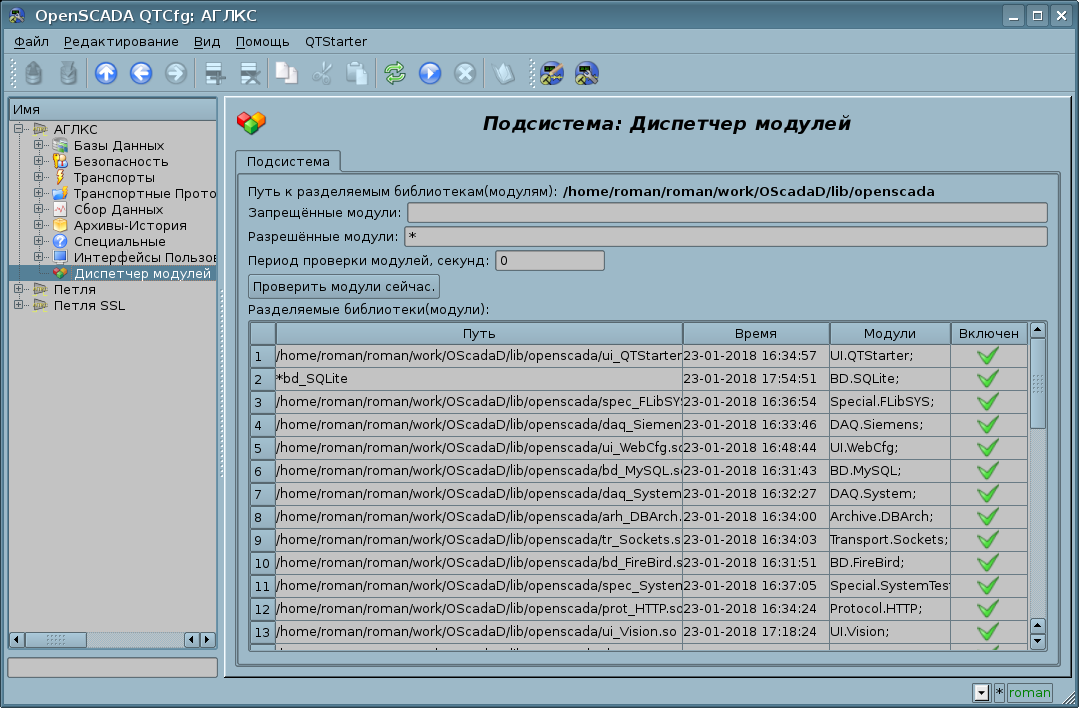
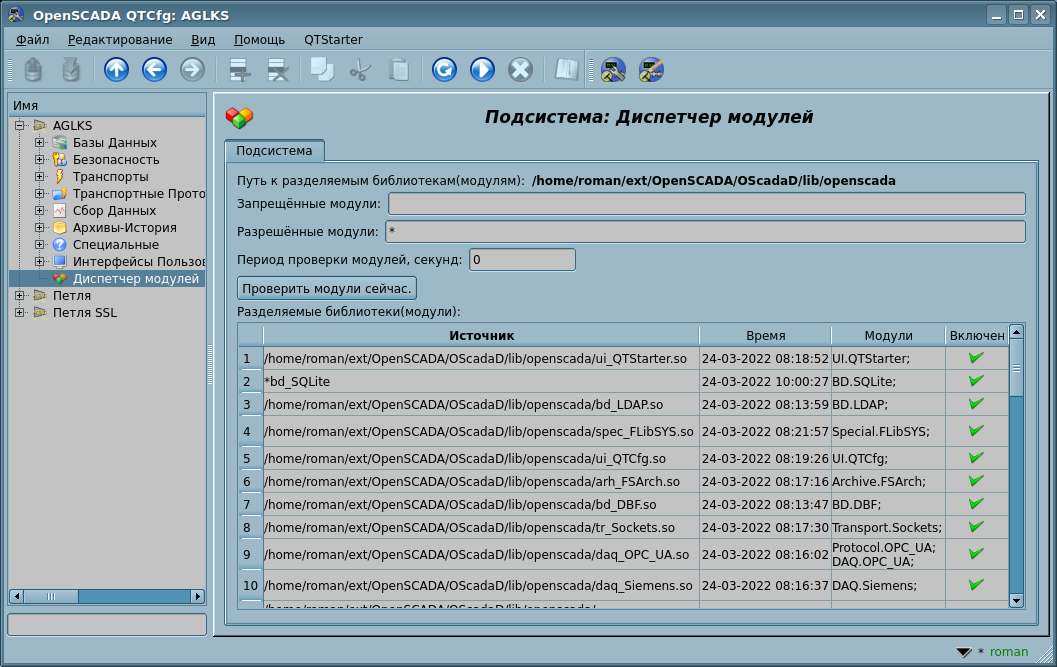
2022-03-25 Roman (stable) - FIX:LibsDB.vcaBase: wlb_Main.RootPgSo: Some unified in the terminator panel open before any content page. - SYS: The column "Path" of the "Shared libraries(modules)" table of the subsystem "Modules scheduler" renamed to "Source". - UI,SYS,DAQ.JavaLikeCalc: The subsystem c

diff --git a/doc/ru/Program_manual.html b/doc/ru/Program_manual.html
@@ -1003,10 +1003,12 @@
 </p>
 <div class="center"><div class="thumb tnone"><div class="thumbinner" style="width:1013px;"><a class="image" href="http://oscada.org/wiki/File:QTCfg_subsys_arch_mod_va_archs_ru.png"><img class="thumbimage" height="540" src="files/QTCfg_subsys_arch_mod_va_archs_ru.png" width="1011" /></a>  <div class="thumbcaption">Рис. 4.6k. Вкладка "Архивы" архиватора значений подсистемы "Архивы-История".</div></div></div></div>
 <h3><span class="mw-headline" id=".D0.9F.D0.BE.D0.B4.D1.81.D0.B8.D1.81.D1.82.D0.B5.D0.BC.D0.B0_.22.D0.9F.D0.BE.D0.BB.D1.8C.D0.B7.D0.BE.D0.B2.D0.B0.D1.82.D0.B5.D0.BB.D1.8C.D1.81.D0.BA.D0.B8.D0.B5_.D0.B8.D0.BD.D1.82.D0.B5.D1.80.D1.84.D0.B5.D0.B9.D1.81.D1.8B.22"><span class="mw-headline-number">4.7</span> Подсистема "Пользовательские интерфейсы"</span></h3>
-<p>Подсистема является модульной. Для конфигурации подсистемы предусмотрена корневая страница подсистемы "Пользовательские интерфейсы", содержащая вкладку "Модули". Вкладка "Модули" (Рис.4.1b) содержит список модулей подсистемы "Специальные" и идентична для всех модульных подсистем.
-</p><p>Каждый модуль подсистемы "Пользовательские интерфейсы" предоставляет конфигурационную страницу с вкладками "Пользовательский интерфейс" и "Модуль". Вкладка "Пользовательский интерфейс" (Рис.4.7) предоставляет параметр для контроля за состоянием "Выполняется" модуля, а также разделы конфигурации, специализированные для модулей этой подсистемы. Во вкладке "Модуль" содержится информация о модуле подсистемы "Пользовательские интерфейсы" (Рис.4.1d), состав которой идентичен для всех модулей.
+<p>Подсистема является модульной. Для конфигурации подсистемы предусмотрена корневая страница подсистемы "Пользовательские интерфейсы", содержащая вкладку "Подсистема" и вкладку "Модули". Вкладка "Подсистема" (Рис.4.7a) в данный момент содержит только конфигурационное поле установки шрифта подсветки синтаксису коду. Вкладка "Модули" (Рис.4.1b) содержит список модулей подсистемы "Специальные" и идентична для всех модульных подсистем.
 </p>
-<div class="center"><div class="thumb tnone"><div class="thumbinner" style="width:921px;"><a class="image" href="http://oscada.org/wiki/File:QTCfg_subsys_ui_mod_ru.png"><img class="thumbimage" height="541" src="files/QTCfg_subsys_ui_mod_ru.png" width="919" /></a>  <div class="thumbcaption">Рис. 4.7. Вкладка "Пользовательский интерфейс" модуля подсистемы "Пользовательские интерфейсы".</div></div></div></div>
+<div class="center"><div class="thumb tnone"><div class="thumbinner" style="width:727px;"><a class="image" href="http://oscada.org/wiki/File:QTCfg_subsys_ui_ru.png"><img class="thumbimage" height="404" src="files/QTCfg_subsys_ui_ru.png" width="725" /></a>  <div class="thumbcaption">Fig. 4.7a. Вкладка "Подсистема" корневой страницы "Пользовательские интерфейсы".</div></div></div></div>
+<p>Каждый модуль подсистемы "Пользовательские интерфейсы" предоставляет конфигурационную страницу с вкладками "Пользовательский интерфейс" и "Модуль". Вкладка "Пользовательский интерфейс" (Рис.4.7b) предоставляет параметр для контроля за состоянием "Выполняется" модуля, а также разделы конфигурации, специализированные для модулей этой подсистемы. Во вкладке "Модуль" содержится информация о модуле подсистемы "Пользовательские интерфейсы" (Рис.4.1d), состав которой идентичен для всех модулей.
+</p>
+<div class="center"><div class="thumb tnone"><div class="thumbinner" style="width:921px;"><a class="image" href="http://oscada.org/wiki/File:QTCfg_subsys_ui_mod_ru.png"><img class="thumbimage" height="541" src="files/QTCfg_subsys_ui_mod_ru.png" width="919" /></a>  <div class="thumbcaption">Рис. 4.7b. Вкладка "Пользовательский интерфейс" модуля подсистемы "Пользовательские интерфейсы".</div></div></div></div>
 <p>В связи с тем, что большинство модулей этой подсистемы являются графическими интерфейсами то они сами могут предоставлять развитый интерфейс настройки, например, модуль <a href="Modules/Vision.html" title="Special:MyLanguage/Modules/Vision">UI.Vision</a>, а информацию про специфику их конфигурации можно найти в собственной документации этих модулей.
 </p>
 <h3><span class="mw-headline" id=".D0.9F.D0.BE.D0.B4.D1.81.D0.B8.D1.81.D1.82.D0.B5.D0.BC.D0.B0_.22.D0.A1.D0.BF.D0.B5.D1.86.D0.B8.D0.B0.D0.BB.D1.8C.D0.BD.D1.8B.D0.B5.22"><span class="mw-headline-number">4.8</span> Подсистема "Специальные"</span></h3>
@@ -1023,11 +1025,11 @@
 <li> <i>Период проверки модулей</i> — указывает на период проверки модулей на факт их обновления, в секундах. Модули, допустимые для автоматического подключения и обновления, будут автоматически обновлены.</li>
 <li> <i>Проверить модули сейчас</i> — команда выполнить проверку модулей на факт их обновления. Модули, допустимые для автоматического подключения и обновления, будут автоматически обновлены.</li>
 <li> <i>Разделяемые библиотеки (модули)</i> — таблица с перечнем разделяемых библиотек с модулями, обнаруженными OpenSCADA. В строках расположены модули, а в колонках информация о них:
-<ul><li> <i>Путь</i> — информация о полном пути к разделяемой библиотеке.</li>
+<ul><li> <i>Источник</i> — источник модуля(ей), который или разделяемая библиотека или встроенный код.</li>
 <li> <i>Время</i> — информация о дате и времени последней модификации файла разделяемой библиотеки.</li>
 <li> <i>Модули</i> — информация о перечне модулей в разделяемой библиотеке.</li>
 <li> <i>Включен</i> — состояние "Включен" разделяемой библиотеки. Привилегированным пользователям предоставляется возможность ручного включения/выключения разделяемых библиотек путём изменения этого поля.</li></ul></li></ul>
-<div class="center"><div class="thumb tnone"><div class="thumbinner" style="width:1081px;"><a class="image" href="http://oscada.org/wiki/File:QTCfg_subsys_modshed_ru.png"><img class="thumbimage" height="708" src="files/QTCfg_subsys_modshed_ru.png" width="1079" /></a>  <div class="thumbcaption">Рис. 4.9. Главная вкладка конфигурации подсистемы "Диспетчер модулей".</div></div></div></div>
+<div class="center"><div class="thumb tnone"><div class="thumbinner" style="width:1059px;"><a class="image" href="http://oscada.org/wiki/File:QTCfg_subsys_modshed_ru.png"><img class="thumbimage" height="667" src="files/QTCfg_subsys_modshed_ru.png" width="1057" /></a>  <div class="thumbcaption">Рис. 4.9. Главная вкладка конфигурации подсистемы "Диспетчер модулей".</div></div></div></div>
 <h3><span class="mw-headline" id=".D0.9A.D0.BE.D0.BD.D1.84.D0.B8.D0.B3.D1.83.D1.80.D0.B0.D1.86.D0.B8.D0.BE.D0.BD.D0.BD.D1.8B.D0.B9_.D0.A4.D0.B0.D0.B9.D0.BB_.D0.B8_.D0.BF.D0.B0.D1.80.D0.B0.D0.BC.D0.B5.D1.82.D1.80.D1.8B_.D0.BA.D0.BE.D0.BC.D0.B0.D0.BD.D0.B4.D0.BD.D0.BE.D0.B9_.D1.81.D1.82.D1.80.D0.BE.D0.BA.D0.B8"><span class="mw-headline-number">4.10</span> <span id="CfgFilePrm" title="#CfgFilePrm">Конфигурационный Файл и параметры командной строки</span></span></h3>
 <p>Конфигурационный Файл OpenSCADA предназначен для хранения основной конфигурации станции OpenSCADA. Только в Конфигурационном Файле и через параметры командной строки можно указать часть ключевых параметров станции, поэтому знакомство со структурой конфигурационного файла необходимо специалистам, разворачивающим специфические решения на основе OpenSCADA. Больше информации про запуск и исполнение OpenSCADA может быть найдено в секции "<a href="#Startup">Запуск и исполнение</a>".
 </p><p>Структурно Конфигурационный Файл организован на расширяемом языке разметки текста XML. Следовательно требуется жёсткое соблюдение правилам синтаксиса XML. Показательный пример Конфигурационного Файла OpenSCADA с примерами конфигурации большинства компонентов OpenSCADA, приведен ниже:
@@ -1689,6 +1691,8 @@ RdRestDtOverTm &lt;дней&gt;   Глубина принудительной п
   11) Base64Code        Тесты кодирования Mime Base64 алгоритмом.
 
 ============= Опции подсистемы "Пользовательские интерфейсы" ============
+---------- Параметры секции '/sub_UI/' конфигурационного файла ----------
+FontSyntHighlCode &lt;шрифт&gt;  Шрифт использованный в подсветке синтаксиса кода, по умолчанию "monospace".
 
 ======================== Опции модуля &lt;UI:Vision&gt; ============================
 ------ Параметры модульной секции '/sub_UI/mod_Vision/' конфигурационного файла ------

diff --git a/doc/uk/Program_manual.html b/doc/uk/Program_manual.html
@@ -1001,10 +1001,12 @@
 </p>
 <div class="center"><div class="thumb tnone"><div class="thumbinner" style="width:929px;"><a class="image" href="http://oscada.org/wiki/File:QTCfg_subsys_arch_mod_va_archs_uk.png"><img class="thumbimage" height="532" src="files/QTCfg_subsys_arch_mod_va_archs_uk.png" width="927" /></a>  <div class="thumbcaption">Рис. 4.6k. Вкладка "Архіви" архіватору значень підсистеми "Архіви-Історія".</div></div></div></div>
 <h3><span class="mw-headline" id=".D0.9F.D1.96.D0.B4.D1.81.D0.B8.D1.81.D1.82.D0.B5.D0.BC.D0.B0_.22.D0.9A.D0.BE.D1.80.D0.B8.D1.81.D1.82.D1.83.D0.B2.D0.B0.D1.86.D1.8C.D0.BA.D1.96_.D1.96.D0.BD.D1.82.D0.B5.D1.80.D1.84.D0.B5.D0.B9.D1.81.D0.B8.22"><span class="mw-headline-number">4.7</span> Підсистема "Користувацькі інтерфейси"</span></h3>
-<p>Підсистема є модульною. Для конфігурації підсистеми передбачено кореневу сторінку підсистеми "Користувацькі інтерфейси", що містить вкладку "Модулі". Вкладка "Модулі" (Рис.4.1b) містить перелік модулів підсистеми "Спеціальні" та ідентична для всіх модульних підсистем.
-</p><p>Кожний модуль підсистеми "Користувацькі інтерфейси" надає конфігураційну сторінку з вкладками "Користувацький інтерфейс" та "Модуль". Вкладка "Користувацький інтерфейс" (Рис.4.7) надає параметр для контролю за станом "Виконується" модуля, а також розділи конфігурації, спеціалізовані для модулів цієї підсистеми. У вкладці "Модуль" міститься інформація про модуль підсистеми "Користувацькі інтерфейси" (Рис.4.1d), склад якої ідентичний для всіх модулів.
+<p>Підсистема є модульною. Для конфігурації підсистеми передбачено кореневу сторінку підсистеми "Користувацькі інтерфейси", яка містить вкладку "Підсистема" та вкладку "Модулі". Вкладка "Підсистема" (Рис.4.7a) наразі містить лише конфігураційне поле встановлення шрифту підсвітлення синтаксису коду. Вкладка "Модулі" (Рис.4.1b) містить перелік модулів підсистеми "Спеціальні" та ідентична для всіх модульних підсистем.
 </p>
-<div class="center"><div class="thumb tnone"><div class="thumbinner" style="width:842px;"><a class="image" href="http://oscada.org/wiki/File:QTCfg_subsys_ui_mod_uk.png"><img class="thumbimage" height="544" src="files/QTCfg_subsys_ui_mod_uk.png" width="840" /></a>  <div class="thumbcaption">Рис. 4.7. Вкладка "Користувацький інтерфейс" модуля підсистеми "Користувацькі інтерфейси".</div></div></div></div>
+<div class="center"><div class="thumb tnone"><div class="thumbinner" style="width:685px;"><a class="image" href="http://oscada.org/wiki/File:QTCfg_subsys_ui_uk.png"><img class="thumbimage" height="404" src="files/QTCfg_subsys_ui_uk.png" width="683" /></a>  <div class="thumbcaption">Fig. 4.7a. Вкладка "Підсистема" кореневої сторінки "Користувацькі інтерфейси".</div></div></div></div>
+<p>Кожний модуль підсистеми "Користувацькі інтерфейси" надає конфігураційну сторінку з вкладками "Користувацький інтерфейс" та "Модуль". Вкладка "Користувацький інтерфейс" (Рис.4.7b) надає параметр для контролю за станом "Виконується" модуля, а також розділи конфігурації, спеціалізовані для модулів цієї підсистеми. У вкладці "Модуль" міститься інформація про модуль підсистеми "Користувацькі інтерфейси" (Рис.4.1d), склад якої ідентичний для всіх модулів.
+</p>
+<div class="center"><div class="thumb tnone"><div class="thumbinner" style="width:842px;"><a class="image" href="http://oscada.org/wiki/File:QTCfg_subsys_ui_mod_uk.png"><img class="thumbimage" height="544" src="files/QTCfg_subsys_ui_mod_uk.png" width="840" /></a>  <div class="thumbcaption">Рис. 4.7b. Вкладка "Користувацький інтерфейс" модуля підсистеми "Користувацькі інтерфейси".</div></div></div></div>
 <p>У зв'язку з тим, що більшість модулів цієї підсистеми є графічними інтерфейсами то вони самі можуть надавати розвинутий інтерфейс налаштування, як то модуль <a href="Modules/Vision.html" title="Special:MyLanguage/Modules/Vision">UI.Vision</a>, а інформацію про специфіку їх конфігурації можна знайти у власній документації цих модулів.
 </p>
 <h3><span class="mw-headline" id=".D0.9F.D1.96.D0.B4.D1.81.D0.B8.D1.81.D1.82.D0.B5.D0.BC.D0.B0_.22.D0.A1.D0.BF.D0.B5.D1.86.D1.96.D0.B0.D0.BB.D1.8C.D0.BD.D1.96.22"><span class="mw-headline-number">4.8</span> Підсистема "Спеціальні"</span></h3>
@@ -1021,11 +1023,11 @@
 <li> <i>Період перевірки модулів</i> — вказує на період перевірки модулів на факт їх оновлення, у секундах. Модулі, дозволені до автоматичного підключення та оновлення, будуть автоматично оновлені.</li>
 <li> <i>Перевірити модулі зараз</i> — команда виконати перевірку модулів на факт їх оновлення. Модулі, допустимі для автоматичного підключення та оновлення, будуть автоматично оновлені.</li>
 <li> <i>Поділювані бібліотеки (модулі)</i> — таблиця з переліком поділюваних бібліотек з модулями, що виявлені OpenSCADA. У рядках розташовано модулі, а у стовпчиках інформацію про них:
-<ul><li> <i>Шлях</i> — інформація про повний шлях до поділюваної бібліотеки.</li>
+<ul><li> <i>Джерело</i> — джерело модуля(ів), яке або поділювана бібліотека або вбудований код.</li>
 <li> <i>Час</i> — інформація про дату та час останньої модифікації файлу поділюваної бібліотеки.</li>
 <li> <i>Модулі</i> — інформація про перелік модулів у поділюваній бібліотеці.</li>
 <li> <i>Ввімкнено</i> — стан "Ввімкнено" поділюваної бібліотеки. Привілейованим користувачам надається можливість ручного включення/виключення поділюваних бібліотек шляхом зміни цього поля.</li></ul></li></ul>
-<div class="center"><div class="thumb tnone"><div class="thumbinner" style="width:1123px;"><a class="image" href="http://oscada.org/wiki/File:QTCfg_subsys_modshed_uk.png"><img class="thumbimage" height="662" src="files/QTCfg_subsys_modshed_uk.png" width="1121" /></a>  <div class="thumbcaption">Рис. 4.9. Головна вкладка конфігурації підсистеми "Диспетчер модулів".</div></div></div></div>
+<div class="center"><div class="thumb tnone"><div class="thumbinner" style="width:1070px;"><a class="image" href="http://oscada.org/wiki/File:QTCfg_subsys_modshed_uk.png"><img class="thumbimage" height="624" src="files/QTCfg_subsys_modshed_uk.png" width="1068" /></a>  <div class="thumbcaption">Рис. 4.9. Головна вкладка конфігурації підсистеми "Диспетчер модулів".</div></div></div></div>
 <h3><span class="mw-headline" id=".D0.9A.D0.BE.D0.BD.D1.84.D1.96.D0.B3.D1.83.D1.80.D0.B0.D1.86.D1.96.D0.B9.D0.BD.D0.B8.D0.B9_.D0.A4.D0.B0.D0.B9.D0.BB_.D1.82.D0.B0_.D0.BF.D0.B0.D1.80.D0.B0.D0.BC.D0.B5.D1.82.D1.80.D0.B8_.D0.BA.D0.BE.D0.BC.D0.B0.D0.BD.D0.B4.D0.BD.D0.BE.D0.B3.D0.BE_.D1.80.D1.8F.D0.B4.D0.BA.D1.83"><span class="mw-headline-number">4.10</span> <span id="CfgFilePrm" title="#CfgFilePrm">Конфігураційний Файл та параметри командного рядку</span></span></h3>
 <p>Конфігураційний Файл OpenSCADA призначено для зберігання основної конфігурації станції OpenSCADA. Лише у Конфігураційному Файлі та через параметри командного рядка можна вказати частину ключових параметрів станції, тому знайомство зі структурою Конфігураційного Файлу необхідне фахівцям, що розгортають специфічні рішення на основі OpenSCADA. Більше інформації із запуску та виконання OpenSCADA може бути знайдено у секції "<a href="#Startup">Запуск та виконання</a>".
 </p><p>Структурно Конфігураційний Файл організовано на розширювальній мові розмітки тексту XML. Відповідно вимагається жорстке дотримання правил синтаксису XML. Показовий приклад Конфігураційного Файлу OpenSCADA з прикладами конфігурації більшості компонентів OpenSCADA, приведено нижче:
@@ -1687,6 +1689,8 @@ RdRestDtOverTm &lt;днів&gt;   Глибина примусового пере
   11) Base64Code        Тести кодування алгоритмом Mime Base64.
 
 ================= Опції підсистеми "Інтерфейси користувачів" ============
+---------- Параметри секції '/sub_UI/' конфігураційного файлу ----------
+FontSyntHighlCode &lt;шрифт&gt;  Шрифт використаний у підсвітлені синтаксису коду, по замовченню "monospace".
 
 ======================== Опції модуля &lt;UI:Vision&gt; ============================
 ------ Параметри модульної секції '/sub_UI/mod_Vision/' конфігураційного файлу ------

diff --git a/doc/en/Program_manual.html b/doc/en/Program_manual.html
@@ -1001,10 +1001,12 @@
 </p>
 <div class="center"><div class="thumb tnone"><div class="thumbinner" style="width:881px;"><a class="image" href="http://oscada.org/wiki/File:QTCfg_subsys_arch_mod_va_archs.png"><img class="thumbimage" height="533" src="files/QTCfg_subsys_arch_mod_va_archs.png" width="879" /></a>  <div class="thumbcaption">Fig. 4.6k. The tab "Archives" of a values archiver of the subsystem "Archives-History".</div></div></div></div>
 <h3><span class="mw-headline" id="Subsystem_.22User_interfaces.22"><span class="mw-headline-number">4.7</span> Subsystem "User interfaces"</span></h3>
-<p>The subsystem is modular one. To configure the subsystem the root page of the subsystem "User Interfaces" is provided, it contains the tab "Modules". The tab "Modules" (Fig.4.1b) contains a list of modules in the subsystem "User Interfaces" and it is identical for all modular subsystems.
-</p><p>Each module of the subsystem "User Interfaces" provides configuration page with the tabs "User Interface" and "Module". The "User Interface" tab (Fig.4.7) provides the parameter for monitoring the "Running" status of the module, as well as the configuration sections specialized for the modules of this subsystem. On the "Module" tab it is provided the information about the module of subsystem "User Interfaces" (Fig.4.1d), whose structure is identical for all modules.
+<p>The subsystem is modular one. To configure the subsystem the root page of the subsystem "User Interfaces" is provided, it contains the tab "Subsystem" and the tab "Modules". The tab "Subsystem" (Fig.4.7a) contains currently only a configuration field for setting the syntax highlight font for code. The tab "Modules" (Fig.4.1b) contains a list of modules in the subsystem "User Interfaces" and it is identical for all modular subsystems.
 </p>
-<div class="center"><div class="thumb tnone"><div class="thumbinner" style="width:748px;"><a class="image" href="http://oscada.org/wiki/File:QTCfg_subsys_ui_mod.png"><img class="thumbimage" height="548" src="files/QTCfg_subsys_ui_mod.png" width="746" /></a>  <div class="thumbcaption">Fig. 4.7. The tab "User Interface" of the module of the subsystem "User Interfaces".</div></div></div></div>
+<div class="center"><div class="thumb tnone"><div class="thumbinner" style="width:683px;"><a class="image" href="http://oscada.org/wiki/File:QTCfg_subsys_ui.png"><img class="thumbimage" height="404" src="files/QTCfg_subsys_ui.png" width="681" /></a>  <div class="thumbcaption">Fig. 4.7a. The tab "Subsystem" of the root page of the subsystem "User Interfaces".</div></div></div></div>
+<p>Each module of the subsystem "User Interfaces" provides configuration page with the tabs "User Interface" and "Module". The "User Interface" tab (Fig.4.7b) provides the parameter for monitoring the "Running" status of the module, as well as the configuration sections specialized for the modules of this subsystem. On the "Module" tab it is provided the information about the module of subsystem "User Interfaces" (Fig.4.1d), whose structure is identical for all modules.
+</p>
+<div class="center"><div class="thumb tnone"><div class="thumbinner" style="width:748px;"><a class="image" href="http://oscada.org/wiki/File:QTCfg_subsys_ui_mod.png"><img class="thumbimage" height="548" src="files/QTCfg_subsys_ui_mod.png" width="746" /></a>  <div class="thumbcaption">Fig. 4.7b. The tab "User Interface" of the module of the subsystem "User Interfaces".</div></div></div></div>
 <p>Due to the fact that most modules of this subsystem are graphical interfaces, they themselves can provide a developed configuration interface such as the <a href="Modules/Vision.html" title="Special:MyLanguage/Modules/Vision">UI.Vision</a> module, and information on the specifics of their configuration can be find in their own documentation of these modules.
 </p>
 <h3><span class="mw-headline" id="Subsystem_.22Specials.22"><span class="mw-headline-number">4.8</span> Subsystem "Specials"</span></h3>
@@ -1021,11 +1023,11 @@
 <li> <i>Period of checking of the modules</i> — indicates the period of checking the modules on the fact of their updating, in seconds. Modules those are allowed for automatically connection and updating will be automatically updated.</li>
 <li> <i>Check the modules now</i> — command to check the modules on the fact of their updating. Modules those are allowed for automatically connection and updating will be automatically updated.</li>
 <li> <i>Shared libraries(modules)</i> — a table with the list of shared libraries with the modules detected by OpenSCADA. Rows are modules and in the columns there is information about them:
-<ul><li> <i>Path</i> — information on the full path to the shared library.</li>
+<ul><li> <i>Source</i> — the module(s) source, which is either the shared library or builtin code.</li>
 <li> <i>Time</i> — information about the date and time of the last modification of a shared library.</li>
 <li> <i>Modules</i> — information about the list of modules in a shared library.</li>
 <li> <i>Enabled</i> — state "Enabled" of the shared library. Privileged users are provided with an opportunity to manually enable/disable the shared libraries by changing this field.</li></ul></li></ul>
-<div class="center"><div class="thumb tnone"><div class="thumbinner" style="width:1097px;"><a class="image" href="http://oscada.org/wiki/File:QTCfg_subsys_modshed.png"><img class="thumbimage" height="677" src="files/QTCfg_subsys_modshed.png" width="1095" /></a>  <div class="thumbcaption">Fig. 4.9. The main configuration tab of the subsystem "Modules scheduler".</div></div></div></div>
+<div class="center"><div class="thumb tnone"><div class="thumbinner" style="width:1065px;"><a class="image" href="http://oscada.org/wiki/File:QTCfg_subsys_modshed.png"><img class="thumbimage" height="671" src="files/QTCfg_subsys_modshed.png" width="1063" /></a>  <div class="thumbcaption">Fig. 4.9. The main configuration tab of the subsystem "Modules scheduler".</div></div></div></div>
 <h3><span class="mw-headline" id="Configuration_File_and_command_line_parameters"><span class="mw-headline-number">4.10</span> <span id="CfgFilePrm" title="#CfgFilePrm">Configuration File and command line parameters</span></span></h3>
 <p>The Configuration File of OpenSCADA is provided to store the generic configuration of OpenSCADA-station. Only in the Configuration File and through the command-line options you can specify a part of the key parameters of the station, so familiarity with the Configuration File structure is necessary for professionals who make peculiar solutions based on OpenSCADA. More information on how to startup and execution OpenSCADA can be found in the section "<a href="#Startup">Startup and execution</a>".
 </p><p>Structure of the Configuration File based on the extensible markup language XML. Correspondingly, strict compliance with XML syntax rules is required. An illustrative example of an OpenSCADA Configuration File with examples of the configuration of most OpenSCADA components is given below:
@@ -1687,6 +1689,8 @@ Contains 7(8) tests of the value archiver to verify the correct functioning of t
   11) Base64Code        Mime Base64 algorithm encoding tests.
 
 ===================== Subsystem "User interfaces" options ===============
+------ Parameters of the section '/sub_UI/' of the configuration file ------
+FontSyntHighlCode &lt;font&gt;  Font used in the code syntax highlight, by default "monospace".
 
 ======================= Module &lt;UI:Vision&gt; options =======================
 ---- Parameters of the module section '/sub_UI/mod_Vision/' of the configuration file ----

diff --git a/src/moduls/ui/VCAEngine/origwidg.cpp b/src/moduls/ui/VCAEngine/origwidg.cpp
@@ -1005,8 +1005,8 @@ bool OrigDiagram::attrChange( Attr &cfg, TVariant prev )
 	    cfg.owner()->attrDel("curColor");
 	}
 	else {
-	    cfg.owner()->attrAdd(new TFld("curSek",trS("Cursor: seconds"),TFld::Integer,Attr::DateTime|Attr::Mutable,"","","","",i2s(A_DiagramCurSek).c_str()));
-	    cfg.owner()->attrAdd(new TFld("curUSek",trS("Cursor: microseconds"),TFld::Integer,Attr::Mutable,"","","","",i2s(A_DiagramCurUSek).c_str()));
+	    cfg.owner()->attrAdd(new TFld("curSek",trS("Cursor: seconds"),TFld::Integer,Attr::NotStored|Attr::DateTime|Attr::Mutable,"","","","",i2s(A_DiagramCurSek).c_str()));
+	    cfg.owner()->attrAdd(new TFld("curUSek",trS("Cursor: microseconds"),TFld::Integer,Attr::NotStored|Attr::Mutable,"","","","",i2s(A_DiagramCurUSek).c_str()));
 	    cfg.owner()->attrAdd(new TFld("curColor",trS("Cursor: color"),TFld::String,Attr::Color|Attr::Mutable,"","white","","",i2s(A_DiagramCurColor).c_str()));
 	}
     }
@@ -1027,8 +1027,8 @@ bool OrigDiagram::attrChange( Attr &cfg, TVariant prev )
 		cfg.owner()->attrAdd(new TFld("tUSek",trS("Time: microseconds"),TFld::Integer,Attr::Mutable,"","","","",i2s(A_DiagramTUSek).c_str()));
 		cfg.owner()->attrAdd(new TFld("tSize",trS("Size, seconds"),TFld::Real,Attr::Mutable,"","60","0;32e6","",i2s(A_DiagramTSize).c_str()));
 		if(cfg.owner()->attrAt("active").at().getB()) {
-		    cfg.owner()->attrAdd(new TFld("curSek",trS("Cursor: seconds"),TFld::Integer,Attr::DateTime|Attr::Mutable,"","","","",i2s(A_DiagramCurSek).c_str()));
-		    cfg.owner()->attrAdd(new TFld("curUSek",trS("Cursor: microseconds"),TFld::Integer,Attr::Mutable,"","","","",i2s(A_DiagramCurUSek).c_str()));
+		    cfg.owner()->attrAdd(new TFld("curSek",trS("Cursor: seconds"),TFld::Integer,Attr::NotStored|Attr::DateTime|Attr::Mutable,"","","","",i2s(A_DiagramCurSek).c_str()));
+		    cfg.owner()->attrAdd(new TFld("curUSek",trS("Cursor: microseconds"),TFld::Integer,Attr::NotStored|Attr::Mutable,"","","","",i2s(A_DiagramCurUSek).c_str()));
 		    cfg.owner()->attrAdd(new TFld("curColor",trS("Cursor: color"),TFld::String,Attr::Color|Attr::Mutable,"","white","","",i2s(A_DiagramCurColor).c_str()));
 		}
 		cfg.owner()->attrAdd(new TFld("sclColor",trS("Scale: color"),TFld::String,Attr::Color|Attr::Mutable,"","grey","","",i2s(A_DiagramSclColor).c_str()));
@@ -1087,9 +1087,9 @@ bool OrigDiagram::attrChange( Attr &cfg, TVariant prev )
 		"","0","0;2;3;6;7",_("Global;Markers;Grid and markers;Markers (log);Grid and markers (log)"),
 		i2s(A_DiagramTrs+A_DiagramTrScl+A_DiagramTrsSz*iP).c_str()));
 	    cfg.owner()->attrAdd(new TFld((fidp+"val").c_str(),(fnmp+_(": value")).c_str(),
-		TFld::Real,Attr::Mutable,"","","","",i2s(A_DiagramTrs+A_DiagramTrVal+A_DiagramTrsSz*iP).c_str()));
+		TFld::Real,Attr::NotStored|Attr::Mutable,"",r2s(EVAL_REAL).c_str(),"","",i2s(A_DiagramTrs+A_DiagramTrVal+A_DiagramTrsSz*iP).c_str()));
 	    cfg.owner()->attrAdd(new TFld((fidp+"prop").c_str(),(fnmp+_(": properties")).c_str(),
-		TFld::String,Attr::Mutable,"","","","",i2s(A_DiagramTrs+A_DiagramTrProp+A_DiagramTrsSz*iP).c_str()));
+		TFld::String,Attr::NotStored|Attr::Mutable,"","","","",i2s(A_DiagramTrs+A_DiagramTrProp+A_DiagramTrsSz*iP).c_str()));
 	}
     }
 
@@ -1335,7 +1335,7 @@ bool OrigDocument::attrChange( Attr &cfg, TVariant prev )
     }
 
     SessWdg *sw = dynamic_cast<SessWdg*>(cfg.owner());
-    if(!sw) return Widget::attrChange(cfg,prev);
+    if(!sw) return Widget::attrChange(cfg, prev);
 
     string u, l;
     if(sw) { u = sw->ownerSess()->reqUser(); l = sw->ownerSess()->reqLang(); }

diff --git a/src/tuis.cpp b/src/tuis.cpp
@@ -35,8 +35,10 @@ using namespace OSCADA;
 //*************************************************
 //* TUIS                                          *
 //*************************************************
-TUIS::TUIS( ) : TSubSYS(SUI_ID, true)
+TUIS::TUIS( ) : TSubSYS(SUI_ID, true), mFontSyntHighlCode(dataRes())
 {
+    mFontSyntHighlCode = "monospace";
+
 #if HAVE_GD_FORCE
     gdFTUseFontConfig(1);
 #endif
@@ -45,7 +47,10 @@ TUIS::TUIS( ) : TSubSYS(SUI_ID, true)
 string TUIS::optDescr( )
 {
     return TSYS::strMess(_(
-	"===================== Subsystem \"User interfaces\" options ===============\n\n")) + TSubSYS::optDescr();
+	"===================== Subsystem \"User interfaces\" options ===============\n"
+	"------ Parameters of the section '%s' of the configuration file ------\n"
+	"FontSyntHighlCode <font>  Font used in the code syntax highlight, by default \"monospace\".\n\n"
+	),nodePath().c_str()) + TSubSYS::optDescr();
 }
 
 void TUIS::load_( )
@@ -53,6 +58,13 @@ void TUIS::load_( )
     //Load parameters from command line
 
     //Load parameters from config-file
+    setFontSyntHighlCode(TBDS::genPrmGet(nodePath()+"FontSyntHighlCode",fontSyntHighlCode()));
+}
+
+void TUIS::save_( )
+{
+    //Save parameters to the table "SYS"
+    TBDS::genPrmSet(nodePath()+"FontSyntHighlCode", fontSyntHighlCode());
 }
 
 string TUIS::icoGet( const string &inm, string *tp, bool retPath )
@@ -113,7 +125,7 @@ string TUIS::docGet( const string &iinm, string *tp, unsigned opt )
 	TArrayObj *tArr;
 	if((tArr=TRegExp("(0.\\d+|\\d+)\\.\\d+").match(VERSION))) {
 	    if(tArr->size() >= 2) {
-		const char  *docHost = "ftp.oscada.org/OpenSCADA";
+		const char *docHost = "ftp.oscada.org/OpenSCADA";
 
 		if(opt&GetPathURL) rez = string("http://") + docHost + "/" + tArr->arGet(1).getS() + "/doc/en/" + nm + ".html";
 		else if(opt&GetContent) ;//rez = req.text();
@@ -205,11 +217,17 @@ void TUIS::cntrCmdProc( XMLNode *opt )
     //Get page info
     if(opt->name() == "info") {
 	TSubSYS::cntrCmdProc(opt);
+	if(ctrMkNode("area",opt,0,"/sub",_("Subsystem"),R_R_R_))
+	    ctrMkNode("fld",opt,-1,"/sub/fontSyntHighlCode",_("Syntax highlight font for code"),RWRWR_,"root",SUI_ID,1,"tp","str");
 	return;
     }
     //Process command to page
     string a_path = opt->attr("path");
-    TSubSYS::cntrCmdProc(opt);
+    if(a_path == "/sub/fontSyntHighlCode") {
+	if(ctrChkNode(opt,"get",RWRWR_,"root",SDAQ_ID,SEC_RD))	opt->setText(fontSyntHighlCode());
+	if(ctrChkNode(opt,"set",RWRWR_,"root",SDAQ_ID,SEC_WR))	setFontSyntHighlCode(opt->text());
+    }
+    else TSubSYS::cntrCmdProc(opt);
 }
 
 //*************************************************

diff --git a/src/ttransports.cpp b/src/ttransports.cpp
@@ -984,7 +984,7 @@ void TTransportIn::cntrCmdProc( XMLNode *opt )
 	    opt->setText(resLog);
 	}
 	if(ctrChkNode(opt,"SnthHgl",R_R___,"root",STR_ID,SEC_RD)) {
-	    opt->setAttr("font","monospace");
+	    opt->setAttr("font", SYS->ui().at().fontSyntHighlCode());
 	    opt->childAdd("rule")->setAttr("expr","^\\[[^\\]]+.+$")->setAttr("color","blue")->setAttr("font_italic","1")->
 		childAdd("rule")->setAttr("expr","^\\[[^\\]]+\\]")->setAttr("color","darkblue")->setAttr("font_weight","1");
 	    //opt->childAdd("rule")->setAttr("expr","^[0-9a-fA-F]{2,} .+$")->setAttr("color","black");
@@ -1296,14 +1296,14 @@ void TTransportOut::cntrCmdProc( XMLNode *opt )
 	    }
 	}
 	if(ctrChkNode(opt,"SnthHgl",RWRW__,"root",STR_ID,SEC_RD)) {
-	    opt->setAttr("font","monospace");
+	    opt->setAttr("font",SYS->ui().at().fontSyntHighlCode());
 	}
     }
     else if(a_path == "/req/answ") {
 	if(ctrChkNode(opt,"get",RWRW__,"root",STR_ID,SEC_RD))	opt->setText(TBDS::genPrmGet(owner().nodePath()+"ReqAnsw","",opt->attr("user")));
 	if(ctrChkNode(opt,"set",RWRW__,"root",STR_ID,SEC_WR))	TBDS::genPrmSet(owner().nodePath()+"ReqAnsw",opt->text(),opt->attr("user"));
 	if(ctrChkNode(opt,"SnthHgl",RWRW__,"root",STR_ID,SEC_RD)) {
-	    opt->setAttr("font","monospace");
+	    opt->setAttr("font",SYS->ui().at().fontSyntHighlCode());
 	}
     }
     else if(a_path == "/req/send" && ctrChkNode(opt,"set",RWRW__,"root",STR_ID,SEC_WR)) {
@@ -1379,7 +1379,7 @@ void TTransportOut::cntrCmdProc( XMLNode *opt )
 	    opt->setText(resLog);
 	}
 	if(ctrChkNode(opt,"SnthHgl",R_R___,"root",STR_ID,SEC_RD)) {
-	    opt->setAttr("font","monospace");
+	    opt->setAttr("font",SYS->ui().at().fontSyntHighlCode());
 	    opt->childAdd("rule")->setAttr("expr","^\\[[^\\]]+.+$")->setAttr("color","blue")->setAttr("font_italic","1")->
 		childAdd("rule")->setAttr("expr","^\\[[^\\]]+\\]")->setAttr("color","darkblue")->setAttr("font_weight","1");
 	    //opt->childAdd("rule")->setAttr("expr","^[0-9a-fA-F]{2,} .+$")->setAttr("color","black");

diff --git a/src/moduls/ui/VCAEngine/session.cpp b/src/moduls/ui/VCAEngine/session.cpp
@@ -319,11 +319,11 @@ bool Session::openCheck( const string &iid )
 
 void Session::openReg( const string &iid )
 {
-    unsigned iOp;
     dataResSes().lock();
-    for(iOp = 0; iOp < mOpen.size(); iOp++)
-	if(iid == mOpen[iOp]) break;
-    if(iOp >= mOpen.size())	mOpen.push_back(iid);
+    //!!!! The new open page will always appear on the top
+    for(int iOp = 0; iOp < (int)mOpen.size(); ++iOp)
+	if(iid == mOpen[iOp]) mOpen.erase(mOpen.begin()+(iOp--));
+    mOpen.push_back(iid);
     dataResSes().unlock();
 
     mess_debug(nodePath().c_str(), _("Registering/opening the page '%s'."), iid.c_str());
@@ -364,7 +364,7 @@ void Session::uiCmd( const string &com, const string &prm, SessWdg *src )
     for(int iOp = opLs.size()-1; iOp >= 0; iOp--) {
 	string curPtEl, curEl;
 	for(int iEl = 0; (curPtEl=TSYS::pathLev(prm,iEl++)).size(); )
-	    if((curEl=TSYS::pathLev(opLs[iOp],iEl)).empty() || (curPtEl.compare(0,3,"pg_") == 0 && curPtEl != curEl)) break;
+	    if((curEl=TSYS::pathLev(opLs[iOp],iEl)).empty() || (curPtEl.find("pg_") == 0 && curPtEl != curEl)) break;
 	if(curPtEl.empty()) { oppg = opLs[iOp]; break; }
     }
 
@@ -378,7 +378,7 @@ void Session::uiCmd( const string &com, const string &prm, SessWdg *src )
 	AutoHD<SessPage> cpg;
 	for(unsigned iEl = 0; (curPtEl=TSYS::pathLev(prm,iEl++)).size(); ) {
 	    string opPg;
-	    if(curPtEl.compare(0,3,"pg_") == 0) opPg = curPtEl.substr(3);
+	    if(curPtEl.find("pg_") == 0) opPg = curPtEl.substr(3);
 	    else if(curPtEl == "*" || (curPtEl == "$" && (com == "next" || com == "prev"))) {
 		vector<string> pls;
 		if(cpg.freeStat()) list(pls); else cpg.at().pageList(pls);

diff --git a/src/moduls/ui/QTStarter/tuimod.cpp b/src/moduls/ui/QTStarter/tuimod.cpp
@@ -57,7 +57,7 @@
 #define MOD_NAME	trS("Qt GUI starter")
 #define MOD_TYPE	SUI_ID
 #define VER_TYPE	SUI_VER
-#define MOD_VER		"5.12.1"
+#define MOD_VER		"5.12.2"
 #define AUTHORS		trS("Roman Savochenko")
 #define DESCRIPTION	trS("Provides the Qt GUI starter. Qt-starter is the only and compulsory component for all GUI modules based on the Qt library.")
 #define LICENSE		"GPL2"
@@ -568,7 +568,7 @@ void TUIMod::cntrCmdProc( XMLNode *opt )
 	if(ctrChkNode(opt,"get",RWRWR_,"root",SUI_ID,SEC_RD))	opt->setText(palette());
 	if(ctrChkNode(opt,"set",RWRWR_,"root",SUI_ID,SEC_WR))	setPalette(opt->text());
 	if(ctrChkNode(opt,"SnthHgl",RWRWR_,"root",SUI_ID,SEC_RD)) {
-	    opt->setAttr("font", "monospace");
+	    opt->setAttr("font", SYS->ui().at().fontSyntHighlCode());
 	    opt->childAdd("rule")->setAttr("expr", "#[0-9a-fA-F]{6}")->setAttr("color", "blue");
 	}
     }
@@ -576,7 +576,7 @@ void TUIMod::cntrCmdProc( XMLNode *opt )
 	if(ctrChkNode(opt,"get",RWRWR_,"root",SUI_ID,SEC_RD))	opt->setText(styleSheets());
 	if(ctrChkNode(opt,"set",RWRWR_,"root",SUI_ID,SEC_WR))	setStyleSheets(opt->text());
 	if(ctrChkNode(opt,"SnthHgl",RWRWR_,"root",SUI_ID,SEC_RD)) {
-	    opt->setAttr("font", "monospace");
+	    opt->setAttr("font", SYS->ui().at().fontSyntHighlCode());
 	    opt->childAdd("blk")->setAttr("beg", "/\\*")->setAttr("end", "\\*/")->setAttr("color", "gray")->setAttr("font_italic", "1");
 	    opt->childAdd("blk")->setAttr("beg", "\\{")->setAttr("end", "\\}")->setAttr("color", "#666666")->
 		childAdd("rule")->setAttr("expr", ":[^;]+")->setAttr("color", "blue");

diff --git a/src/moduls/ui/VCAEngine/libwidg.h b/src/moduls/ui/VCAEngine/libwidg.h
@@ -1,7 +1,7 @@
 
 //OpenSCADA module UI.VCAEngine file: libwidg.h
 /***************************************************************************
- *   Copyright (C) 2006-2021 by Roman Savochenko, <roman@oscada.org>       *
+ *   Copyright (C) 2006-2022 by Roman Savochenko, <roman@oscada.org>       *
  *                                                                         *
  *   This program is free software; you can redistribute it and/or modify  *
  *   it under the terms of the GNU General Public License as published by  *
@@ -179,7 +179,7 @@ class LWidget : public Widget, public TConfig
 	void save_( );
 	void wClear( );
 
-	void setWModif( Attr *a = NULL )	{ modif(); Widget::setWModif(a); }
+	void setWModif( Attr *a = NULL )	{ if(!a || !(a->flgGlob()&Attr::NotStored)) { modif(); Widget::setWModif(a); } }
 
     private:
 	//Attributes
@@ -242,7 +242,7 @@ class CWidget : public Widget, public TConfig
 	void save_( );
 	void wClear( );
 
-	void setWModif( Attr *a = NULL )	{ modif(); Widget::setWModif(a); }
+	void setWModif( Attr *a = NULL )	{ if(!a || !(a->flgGlob()&Attr::NotStored)) { modif(); Widget::setWModif(a); } }
 
 	void cntrCmdProc( XMLNode *opt );	//Control interface command process
 };

diff --git a/src/moduls/daq/JavaLikeCalc/virtual.cpp b/src/moduls/daq/JavaLikeCalc/virtual.cpp
@@ -36,7 +36,7 @@
 #define MOD_TYPE	SDAQ_ID
 #define VER_TYPE	SDAQ_VER
 #define SUB_TYPE	"LIB"
-#define MOD_VER		"5.4.16"
+#define MOD_VER		"5.4.17"
 #define AUTHORS		trS("Roman Savochenko")
 #define DESCRIPTION	trS("Provides a calculator and libraries engine on the Java-like language.\
  The user can create and modify functions and their libraries.")
@@ -199,7 +199,7 @@ bool TpContr::compileFuncLangs( vector<string> *ls )
 void TpContr::compileFuncSynthHighl( const string &lang, XMLNode &shgl )
 {
     if(lang == "JavaScript") {
-	shgl.setAttr("font","monospace");
+	shgl.setAttr("font",SYS->ui().at().fontSyntHighlCode());
 	//shgl.childAdd("rule")->setAttr("expr","(\"\"|\".*[^\\\\](|\\\\{2}|\\\\{4}|\\\\{6}|\\\\{8})\")")->setAttr("min","1")->setAttr("color","darkgreen")->
 	shgl.childAdd("rule")->setAttr("expr","(\"(|\\\\{2}|\\\\{4}|\\\\{6}|\\\\{8})\"|\".*[^\\\\](|\\\\{2}|\\\\{4}|\\\\{6}|\\\\{8})\")")->setAttr("min","1")->setAttr("color","darkgreen")->
 	     childAdd("rule")->setAttr("expr","\\\\([xX][a-zA-Z0-9]{2}|[0-7]{3}|.{1})")->setAttr("color","green")->setAttr("font_weight","1");

diff --git a/src/moduls/ui/WebVision/web_vision.cpp b/src/moduls/ui/WebVision/web_vision.cpp
@@ -34,7 +34,7 @@
 #define MOD_TYPE	SUI_ID
 #define VER_TYPE	SUI_VER
 #define SUB_TYPE	"WWW"
-#define MOD_VER		"6.6.3"
+#define MOD_VER		"6.6.4"
 #define AUTHORS		trS("Roman Savochenko, Lysenko Maxim (2008-2012), Yashina Kseniya (2007)")
 #define DESCRIPTION	trS("Visual operation user interface, based on the WEB - front-end to the VCA engine.")
 #define LICENSE		"GPL2"
@@ -696,7 +696,7 @@ void TWEB::cntrCmdProc( XMLNode *opt )
 	if(ctrChkNode(opt,"get",RWRWR_,"root",SUI_ID,SEC_RD))	opt->setText(custCSS());
 	if(ctrChkNode(opt,"set",RWRWR_,"root",SUI_ID,SEC_WR))	setCustCSS(opt->text());
 	if(ctrChkNode(opt,"SnthHgl",RWRWR_,"root",SUI_ID,SEC_RD)) {
-	    opt->setAttr("font", "monospace");
+	    opt->setAttr("font", SYS->ui().at().fontSyntHighlCode());
 	    opt->childAdd("blk")->setAttr("beg", "/\\*")->setAttr("end", "\\*/")->setAttr("color", "gray")->setAttr("font_italic", "1");
 	    opt->childAdd("blk")->setAttr("beg", "\\{")->setAttr("end", "\\}")->setAttr("color", "#666666")->
 		childAdd("rule")->setAttr("expr", ":[^;]+")->setAttr("color", "blue");

diff --git a/src/tmodschedul.cpp b/src/tmodschedul.cpp
@@ -425,7 +425,7 @@ void TModSchedul::cntrCmdProc( XMLNode *opt )
 	    ctrMkNode("fld",opt,-1,"/ms/chk_per",_("Period of checking of the modules, seconds"),RWRWR_,"root",SMSH_ID,1,"tp","dec");
 	    ctrMkNode("comm",opt,-1,"/ms/chk_now",_("Check the modules now."),RWRW__,"root",SMSH_ID);
 	    if(ctrMkNode("table",opt,-1,"/ms/libs",_("Shared libraries(modules)"),RWRWR_,"root",SMSH_ID,1,"key","path")) {
-		ctrMkNode("list",opt,-1,"/ms/libs/path",_("Path"),R_R_R_,"root",SMSH_ID,1,"tp","str");
+		ctrMkNode("list",opt,-1,"/ms/libs/path",_("Source"),R_R_R_,"root",SMSH_ID,1,"tp","str");
 		ctrMkNode("list",opt,-1,"/ms/libs/tm",_("Time"),R_R_R_,"root",SMSH_ID,1,"tp","time");
 		ctrMkNode("list",opt,-1,"/ms/libs/mods",_("Modules"),R_R_R_,"root",SMSH_ID,1,"tp","str");
 		ctrMkNode("list",opt,-1,"/ms/libs/en",_("Enabled"),RWRWR_,"root",SMSH_ID,1,"tp","bool");
